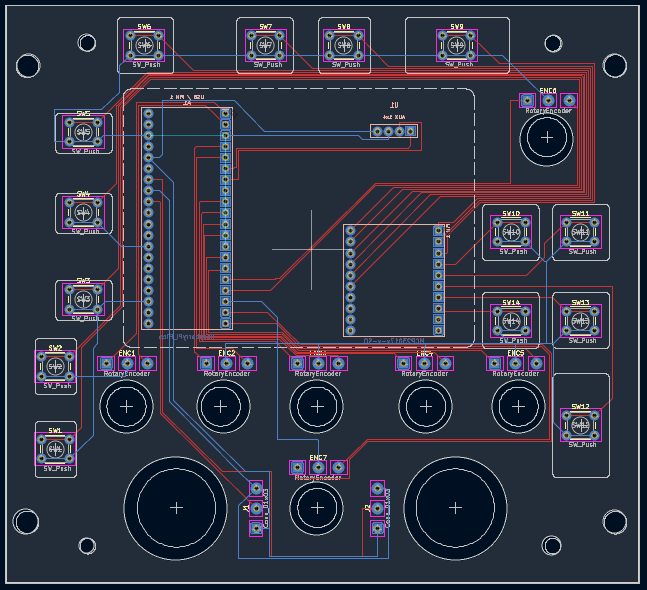
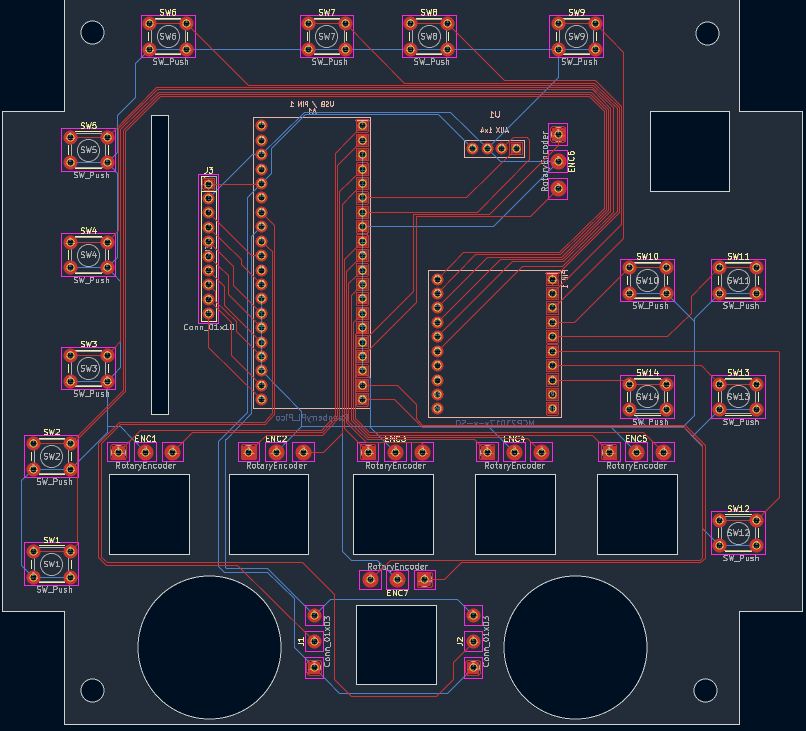
Update to docs and images

diff --git a/README.md b/README.md
@@ -1,6 +1,10 @@
 # DCS ARC-210 Radio head
 
-![faceplate.png](images/faceplate.png)
+![faceplate.jpg](images/faceplate.jpg)
+
+I got this facepolate from **SFSauto** on etsy [A10 ARC210](https://www.etsy.com/listing/1082384231/a10-thunderbolt-left-console-vhf-uhf),
+but it seem like either this guy makes them for PC flights.com or got them from them. They are also available 
+from [PC flights.com](https://pcflights.com), direct link [a-10c-thunderbolt-warthog-vhf-uhf-panel](https://pcflights.com/a-10c-thunderbolt-warthog-vhf-uhf-panel/)
 
 # Summary
 
@@ -74,7 +78,6 @@ Power and ground allocation:
 ![Complete Pico wiring allocation](images/full-pico-wiring.svg)
 
 # I/O expander
-![mcp23017-14-button-wiring.svg](images/mcp23017-14-button-wiring.svg)
 
 I used the Waveshare MCP23017 IO Expansion Board I2C.
 
@@ -248,7 +251,7 @@ Locked-out position: approximately 0 (invalid)
 
 Firmware should define threshold ranges for each position instead of checking exact values. A good starting point is to place each threshold halfway between adjacent expected values, then require the decoded position to remain stable for 20-50ms before accepting the change.
 
-# SPI display reserve
+## SPI display reserve
 The design should reserve pins for a future SPI display. A typical SPI display may need:
 
 - SCK
@@ -260,7 +263,7 @@ The design should reserve pins for a future SPI display. A typical SPI display m
 
 Using the MCP23017 for push buttons keeps enough Pico pins available for the display. Direct-to-GPIO wiring for all buttons and switch positions would make the SPI display difficult to add cleanly.
 
-# Interface to DCS
+## Interface to DCS
 
 Initial recommendation: USB HID joystick/game-controller firmware using Arduino with the Arduino-Pico core.
 
@@ -324,16 +327,41 @@ The sketch presents one USB joystick with all 32 buttons used and no analog cont
 
 The Arduino-Pico joystick descriptor supports 32 buttons, so this allocation uses its entire button capacity. The selectors intentionally emit relative next/previous pulses instead of using fourteen more held buttons, keeping the design within that limit. Bind each selector's next/previous buttons to the matching DCS increment/decrement commands. On startup, align the simulator state with the physical selector positions manually.
 
-# Open items before final schematic
+## Open items before final schematic
 
-- Confirm the SPI display model and pin requirements
-- Confirm the final USB HID report: 32-button capacity, encoder behavior, and selector behavior
+- SPI display model and pin requirements
+- Find suitable display
 
-# PCB Rev A work
+## Initial Prototype
 
-The first PCB revision is a panel-sized button carrier. The 14 tactile buttons mount directly to the PCB; the seven encoders and two selectors remain faceplate-mounted and connect through harnesses.
+The initial prototype was done on perf boards.
+The Pico was mounted in a 2x20 socket and the MCP23017 was mounted in a 1x28 socket.
+The components are just soldiered together using random wires. the whole thing is kind
+of a mess. It works but it is ugly.
 
-Rev A uses a removable Raspberry Pi Pico in two 1x20 sockets, a socketed MCP23017-E/SP DIP-28 IC, and provisional 6x6mm tactile-switch footprints. It is not ready for fabrication until the exact tactile switch, button-cap/plunger arrangement, rotary-control dimensions, mounting method, and connector family are confirmed.
+![proto-a.png](images/proto-a.png)
+![proto-b.png](images/proto-b.png)
+![proto-c.png](images/proto-c.png)
+![proto-d.png](images/proto-d.png)
+![proto-e.png](images/proto-e.png)
+
+# PCB
+I figured it would be cool to see if I can create a PCB. 
+Watching some youtube videos from the Warthog project and
+some DCS community videos of people build button boxes and
+different panels made me think I could clean this up a lot.
+
+## PCB Rev A work
+
+The first PCB revision is a panel-sized button carrier. The 14 tactile 
+buttons mount directly to the PCB; the seven encoders and two selectors
+remain faceplate-mounted and connect through harnesses.
+
+Rev A uses a removable Raspberry Pi Pico in two 1x20 sockets, 
+a socketed MCP23017-E/SP DIP-28 IC, and provisional 6x6mm 
+tactile-switch footprints. It is not ready for fabrication until
+the exact tactile switch, button-cap/plunger arrangement, rotary-control
+dimensions, mounting method, and connector family are confirmed.
 
 ## Kicad
 ![pcb-kicad.png](images/pcb-kicad.png)
